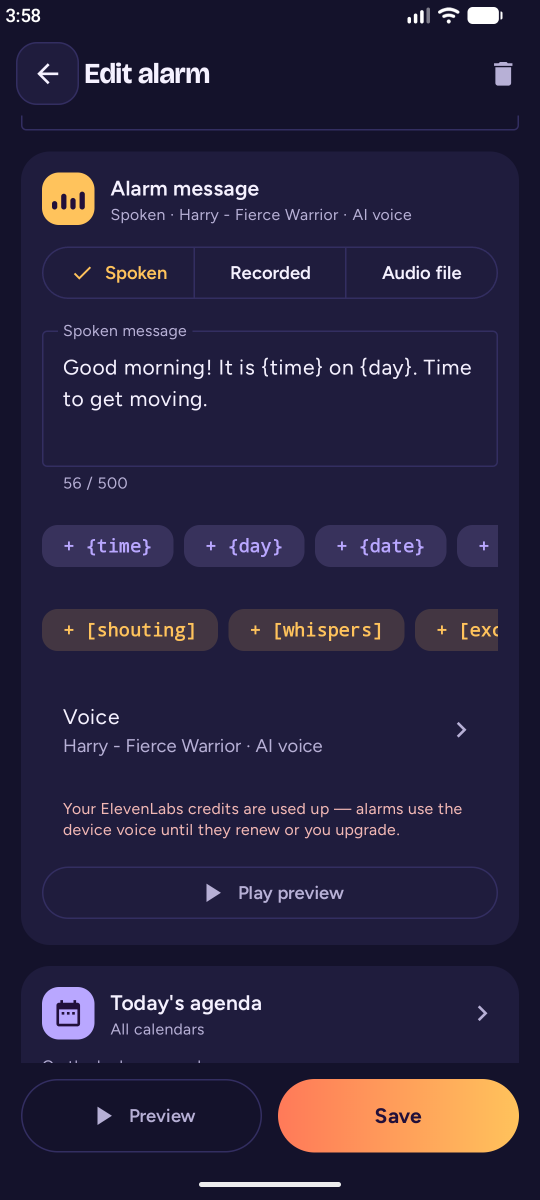
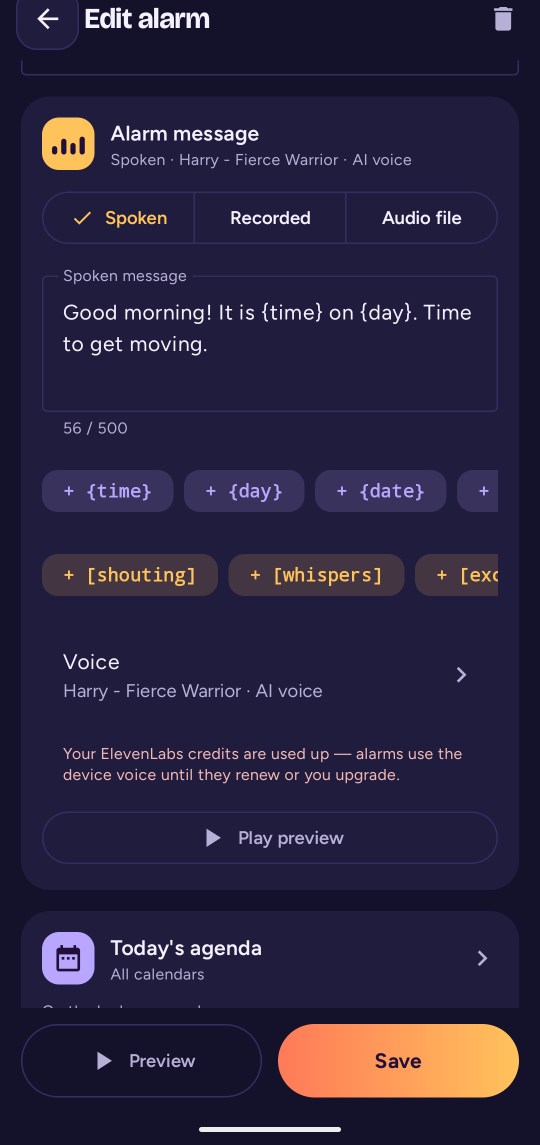
Scroll-reveal animations, floating hero phone; crop the status bar from site screenshots

diff --git a/index.html b/index.html
@@ -44,7 +44,7 @@
       </div>
       <p class="hero-note">Free alarms forever · Pro briefing with a 7-day free trial · No ads, no account</p>
     </div>
-    <div class="phone"><img src="img/ringing.png" width="540" height="1200" alt="Herald's ringing screen: the time, the spoken message, today's agenda, the weather and the top stories"></div>
+    <div class="phone"><img src="img/ringing.png" width="540" height="1145" alt="Herald's ringing screen: the time, the spoken message, today's agenda, the weather and the top stories"></div>
   </div>
 </section>
 
@@ -88,10 +88,10 @@
       <h2>Designed to be the first thing you see.</h2>
     </div>
     <div class="screens">
-      <figure><div class="phone"><img src="img/list.png" width="540" height="1200" alt="Alarm list with the next alarm in a sunrise card" loading="lazy"></div><figcaption>Your alarms, in a sunrise that follows the day</figcaption></figure>
-      <figure><div class="phone"><img src="img/message.png" width="540" height="1200" alt="Alarm editor with the spoken message and placeholder chips" loading="lazy"></div><figcaption>Write what it says — add {time} or [whispers]</figcaption></figure>
-      <figure><div class="phone"><img src="img/voices.png" width="540" height="1200" alt="AI voice picker listing ElevenLabs voices" loading="lazy"></div><figcaption>Bring your own ElevenLabs, OpenAI or Google voice</figcaption></figure>
-      <figure><div class="phone"><img src="img/briefing.png" width="540" height="1200" alt="Agenda, weather and news switches in the alarm editor" loading="lazy"></div><figcaption>Hear your day: calendar, weather, headlines</figcaption></figure>
+      <figure><div class="phone"><img src="img/list.png" width="540" height="1145" alt="Alarm list with the next alarm in a sunrise card" loading="lazy"></div><figcaption>Your alarms, in a sunrise that follows the day</figcaption></figure>
+      <figure><div class="phone"><img src="img/message.png" width="540" height="1145" alt="Alarm editor with the spoken message and placeholder chips" loading="lazy"></div><figcaption>Write what it says — add {time} or [whispers]</figcaption></figure>
+      <figure><div class="phone"><img src="img/voices.png" width="540" height="1145" alt="AI voice picker listing ElevenLabs voices" loading="lazy"></div><figcaption>Bring your own ElevenLabs, OpenAI or Google voice</figcaption></figure>
+      <figure><div class="phone"><img src="img/briefing.png" width="540" height="1145" alt="Agenda, weather and news switches in the alarm editor" loading="lazy"></div><figcaption>Hear your day: calendar, weather, headlines</figcaption></figure>
     </div>
   </div>
 </section>
@@ -170,9 +170,9 @@
 
 <footer>
   <div class="wrap">
-    <span>© 2026 Tamás Korbei · Herald for Android</span>
+    <span>© 2026 Korbei · Herald for Android</span>
     <a href="privacy.html">Privacy policy</a>
-    <a href="mailto:tamas.korbei@egroup.hu">tamas.korbei@egroup.hu</a>
+    <a href="mailto:tamas.korbei@gmail.com">tamas.korbei@gmail.com</a>
     <a class="sp" href="https://play.google.com/store/apps/details?id=hu.korbei.herald">Google Play</a>
   </div>
 </footer>

diff --git a/style.css b/style.css
@@ -128,3 +128,19 @@ footer .sp{margin-left:auto}
 .doc p{margin:12px 0}
 .doc ul{padding-left:22px}.doc li{margin:8px 0}
 .doc .muted{color:var(--muted)}
+
+/* scroll reveal — progressive: without JS everything is simply visible */
+.js .reveal{opacity:0;transform:translateY(26px);transition:opacity .7s ease,transform .8s cubic-bezier(.2,.7,.2,1);transition-delay:var(--d,0s);will-change:opacity,transform}
+.js .reveal.in{opacity:1;transform:none}
+.js .reveal-scale{transform:translateY(26px) scale(.96)}
+.js .reveal-scale.in{transform:none}
+@keyframes float{0%,100%{transform:rotate(-2deg) translateY(0)}50%{transform:rotate(-2deg) translateY(-12px)}}
+.js .hero .phone.in{animation:float 7s ease-in-out 1s infinite}
+@media (max-width:860px){.js .hero .phone.in{animation:none}}
+.nav{transition:box-shadow .3s}
+.nav.scrolled{box-shadow:0 10px 30px rgba(0,0,0,.35)}
+@media (prefers-reduced-motion:reduce){
+  .js .reveal{opacity:1;transform:none;transition:none}
+  .js .hero .phone.in{animation:none}
+  html{scroll-behavior:auto}
+}

diff --git a/tools/scale.html b/tools/scale.html
@@ -1,2 +1,2 @@
-<!doctype html><meta charset="utf-8"><style>html,body{margin:0;background:#14122B}img{display:block;width:540px;height:1200px}</style>
-<img id="i"><script>document.getElementById('i').src=new URLSearchParams(location.search).get('img')</script>
+<!doctype html><meta charset="utf-8"><style>html,body{margin:0;background:#14122B}div{width:540px;height:1145px;overflow:hidden}img{display:block;width:540px;height:1200px;margin-top:-55px}</style>
+<div><img id="i"></div><script>document.getElementById("i").src=new URLSearchParams(location.search).get("img")</script>
